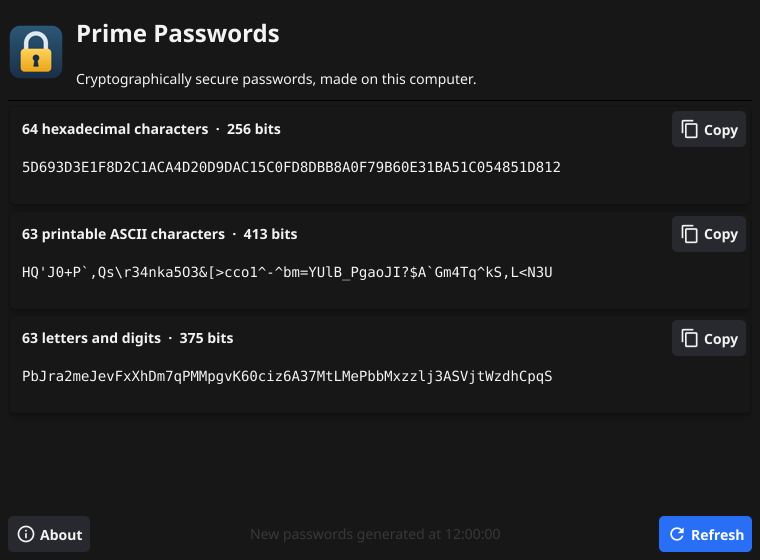
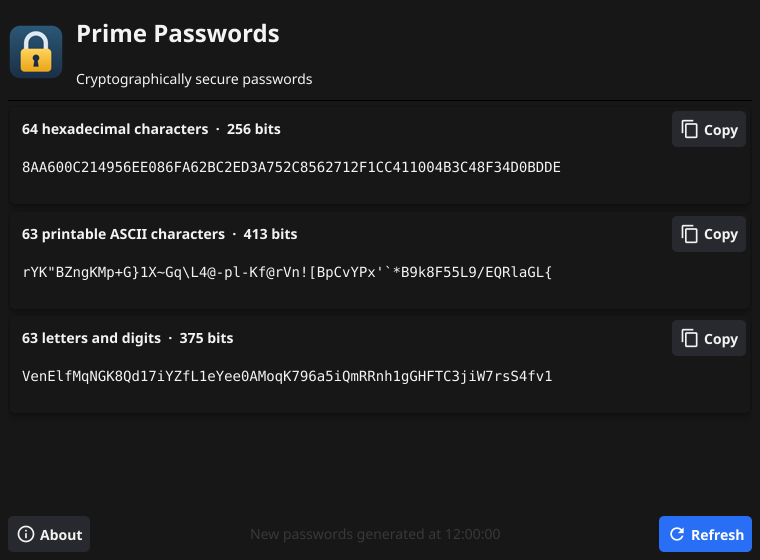
Shorten window subtitle to "Cryptographically secure passwords"

diff --git a/ui.go b/ui.go
@@ -124,7 +124,7 @@ func newMainUI(a fyne.App, w fyne.Window) *mainUI {
 	logo.SetMinSize(fyne.NewSize(56, 56))
 	title := widget.NewLabelWithStyle("Prime Passwords", fyne.TextAlignLeading, fyne.TextStyle{Bold: true})
 	title.SizeName = theme.SizeNameHeadingText
-	subtitle := widget.NewLabel("Cryptographically secure passwords, made on this computer.")
+	subtitle := widget.NewLabel("Cryptographically secure passwords")
 	header := container.NewBorder(nil, nil, logo, nil, container.NewVBox(title, subtitle))
 
 	buttons := container.NewBorder(nil, nil, u.aboutBtn, u.refreshBtn, u.status)

diff --git a/CHANGELOG.md b/CHANGELOG.md
@@ -14,6 +14,7 @@ All notable changes are listed here. Versions follow [Semantic Versioning](https
 - `SCREENSHOTS=1 go test -run TestScreenshots .` renders README images.
 
 ### Changed
+- Window subtitle shortened to "Cryptographically secure passwords".
 - `make build`/`make install` default to a build that runs on both X11 and
   Wayland; `TAGS=wayland` gives a native Wayland window.
 
